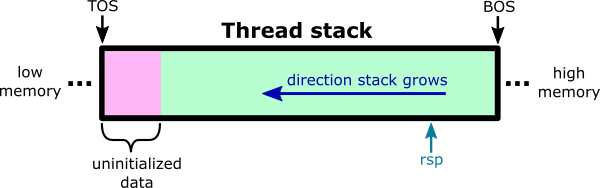
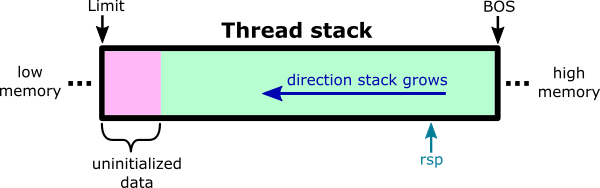
fixed terminology

diff --git a/2018/06/03/smaller-bss/index.html b/2018/06/03/smaller-bss/index.html
@@ -63,7 +63,7 @@ uxtheme!IMAGE_SECTION_HEADER
 
 <h2>Solution</h2>
 
-<p>One solution would be to use the top of the stack (TOS) as a place to store your data. Since the Windows loader will allocate pages for the stack of your main thread when your process is initialized, we can tell the loader to allocate a little extra for us to use for general purpose data storage.</p>
+<p>One solution would be to use the top of the stack (upper limit) as a place to store your data. Since the Windows loader will allocate pages for the stack of your main thread when your process is initialized, we can tell the loader to allocate a little extra for us to use for general purpose data storage.</p>
 
 <p><img src="/img/stack1.png" alt="Target stack layout"></p>
 
@@ -75,7 +75,7 @@ uxtheme!IMAGE_SECTION_HEADER
 
 <p><img src="/img/stack2.png" alt="Reserved stack memory"></p>
 
-<p>How do the number of committed stack pages grow so that we can use the necessary memory as <code>rsp</code> grows in the direction of the TOS? That&#39;s the job of the stack guard page. Guard pages are special pages that will trigger an exception when accessed. You can register handler functions for these exceptions and do processing based on who touched the guarded page. In the case of a stack guard page, Windows will catch this exception, commit the page on demand, and make the subsequent stack page the next guard page. This allows the OS to not use physical memory for stacks unless absolutely needed. Why would this be needed? Imagine a process which has hundreds or even thousands of threads which all have stacks that are multiple megabytes. This can get expensive very quickly and committing on demand can help in saving physical memory. Once a page has been committed and the stack shrinks above it, it will not be uncomitted.</p>
+<p>How do the number of committed stack pages grow so that we can use the necessary memory as <code>rsp</code> grows in the direction of the upper limit? That&#39;s the job of the stack guard page. Guard pages are special pages that will trigger an exception when accessed. You can register handler functions for these exceptions and do processing based on who touched the guarded page. In the case of a stack guard page, Windows will catch this exception, commit the page on demand, and make the subsequent stack page the next guard page. This allows the OS to not use physical memory for stacks unless absolutely needed. Why would this be needed? Imagine a process which has hundreds or even thousands of threads which all have stacks that are multiple megabytes. This can get expensive very quickly and committing on demand can help in saving physical memory. Once a page has been committed and the stack shrinks above it, it will not be uncomitted.</p>
 
 <p>Implementing a guard page feature in an OS is fairly straightforward as all pages in the guard region need to be set as invalid in the page tables. On access, the kernel page fault handler can look in either the page tables or a data structure describing regions of the virtual address space to see if the page is really invalid and triggering an application exception, or if a callback needs to be fired off.</p>
 
@@ -85,7 +85,7 @@ uxtheme!IMAGE_SECTION_HEADER
 
 <p>As you can see, this would skip the guard page if the required stack region hasn&#39;t been committed before. For this reason, MSVC will implicitly call <a href="https://msdn.microsoft.com/en-us/library/ms648426(v=vs.85).aspx"><code>_chkstk</code></a> for large stack allocations behind the scenes to <em>probe</em> the stack and touch as many guard pages as necessary to make sure there is enough committed memory for the buffer.</p>
 
-<p>All this to say, if we tried to blindly use the extra stack memory at the TOS we requested it wouldn&#39;t be committed and segfault our process. Now that we understand the difference between memory being reserved and committed, this is a non-issue as we are able to specify to the loader how much of our stack we want to commit before our entry point is called.</p>
+<p>All this to say, if we tried to blindly use the extra stack memory at the upper limit we requested it wouldn&#39;t be committed and segfault our process. Now that we understand the difference between memory being reserved and committed, this is a non-issue as we are able to specify to the loader how much of our stack we want to commit before our entry point is called.</p>
 
 <h3>Updating PE header stack sizes</h3>
 
@@ -145,9 +145,9 @@ uxtheme!IMAGE_OPTIONAL_HEADER
 
 <p>Additionally, the stack is larger than before and we can start storing data in the newly committed upper area. If there is concern of the stack growing into our uninitialized data block we can always bump up the reserved/committed stack size though deep stacks can be indicators of poor program design.</p>
 
-<h3>Locating the TOS</h3>
+<h3>Locating the upper limit</h3>
 
-<p>Now that our stack is correctly initialized at load time it&#39;s not difficult to locate the TOS to start placing our data in the newly committed space:</p>
+<p>Now that our stack is correctly initialized at load time it&#39;s not difficult to locate the upper limit to start placing our data in the newly committed space:</p>
 <div class="highlight"><pre><code class="language-nasm" data-lang="nasm"><span class="nf">PAGE_SIZE</span> <span class="err">=</span> <span class="mh">1000h</span>
 
 <span class="c1">; We first want to copy the current stack pointer into rax so that we can </span>
@@ -169,11 +169,11 @@ uxtheme!IMAGE_OPTIONAL_HEADER
 <span class="c1">; to roll rax back (STACK_COMMIT - PAGE_SIZE) to not overshoot our destination :)</span>
 <span class="nf">sub</span> <span class="nb">rax</span><span class="p">,</span> <span class="nv">STACK_COMMIT</span> <span class="o">-</span> <span class="nv">PAGE_SIZE</span>
 </code></pre></div>
-<p>And there we have it, the TOS is now going to be in <code>rax</code>. We need to first align to the nearest page as we aren&#39;t sure exactly where in the BOS page we are after being called by the loader as part of process initialization on Windows runs in user mode on the main thread. We can now store as much data as we feel comfortable at the top of the stack.</p>
+<p>And there we have it, the upper limit is now going to be in <code>rax</code>. We need to first align to the nearest page as we aren&#39;t sure exactly where in the BOS page we are after being called by the loader as part of process initialization on Windows runs in user mode on the main thread. We can now store as much data as we feel comfortable at the top of the stack.</p>
 
 <h2>Conclusion</h2>
 
-<p>That&#39;s it! 15 bytes of machine code to get the TOS in <code>rax</code>. You could have allocated from the heap to do something similar but it would have ended up costing more bytes depending on your use case. From here in fasm if you want to have multiple uninitialized values you can create a struct using the <a href="https://flatassembler.net/docs.php?article=win32">windows includes</a> <code>struct</code> macro:</p>
+<p>That&#39;s it! 15 bytes of machine code to get the upper limit in <code>rax</code>. You could have allocated from the heap to do something similar but it would have ended up costing more bytes depending on your use case. From here in fasm if you want to have multiple uninitialized values you can create a struct using the <a href="https://flatassembler.net/docs.php?article=win32">windows includes</a> <code>struct</code> macro:</p>
 <div class="highlight"><pre><code class="language-nasm" data-lang="nasm"><span class="k">struc</span><span class="nv">t</span> <span class="nv">BSS</span>
     <span class="nf">Var1</span> <span class="nv">dd</span> <span class="nv">?</span>
     <span class="nf">Var2</span> <span class="nv">dw</span> <span class="nv">?</span>
@@ -185,7 +185,7 @@ uxtheme!IMAGE_OPTIONAL_HEADER
 <span class="c1">; rax = base of uninitialize data area</span>
 <span class="nf">mov</span> <span class="p">[</span><span class="nb">rax</span> <span class="o">+</span> <span class="nv">BSS.Var1</span><span class="p">],</span> <span class="mi">123</span>
 </code></pre></div>
-<p>If you have a method to get the TOS in fewer bytes please contact me!</p>
+<p>If you have a method to get the stack limit in fewer bytes please contact me!</p>
 
   </div>  
 </article>
